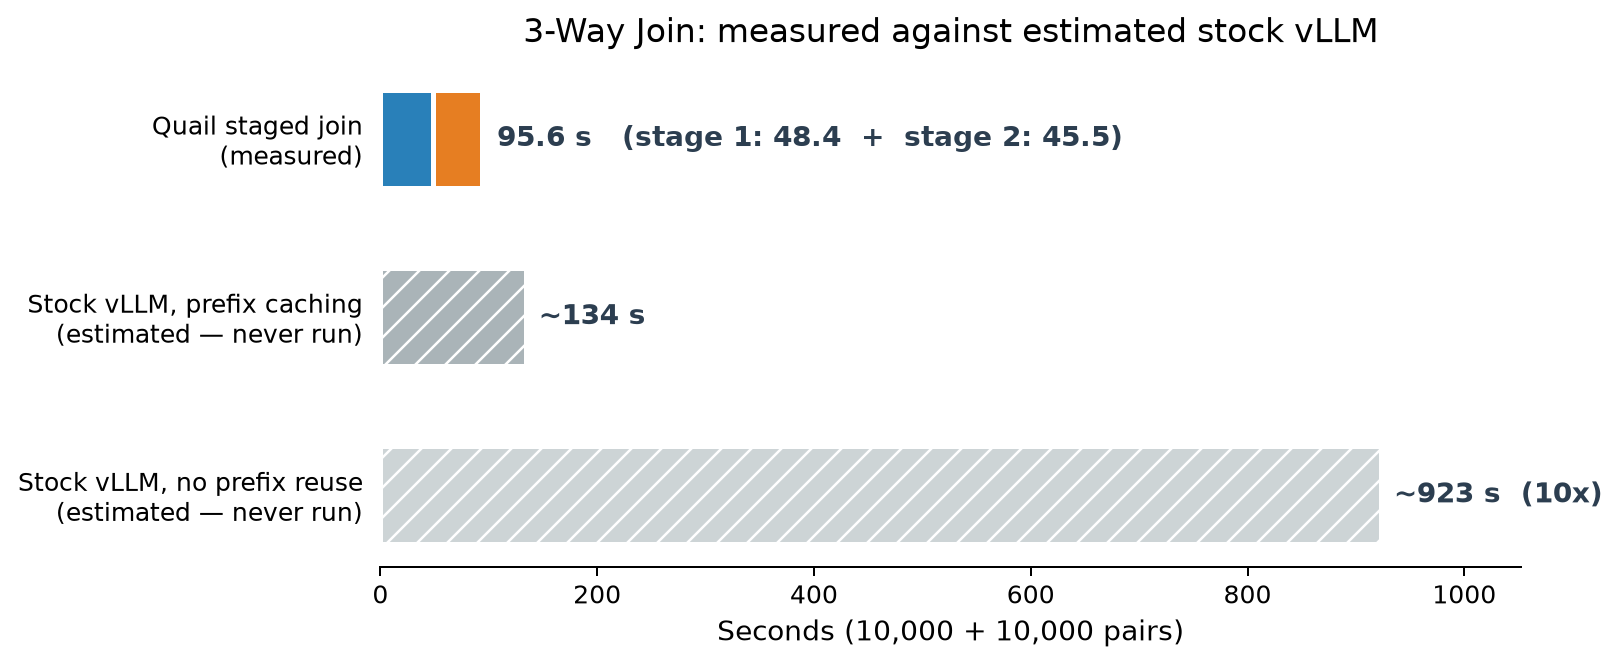
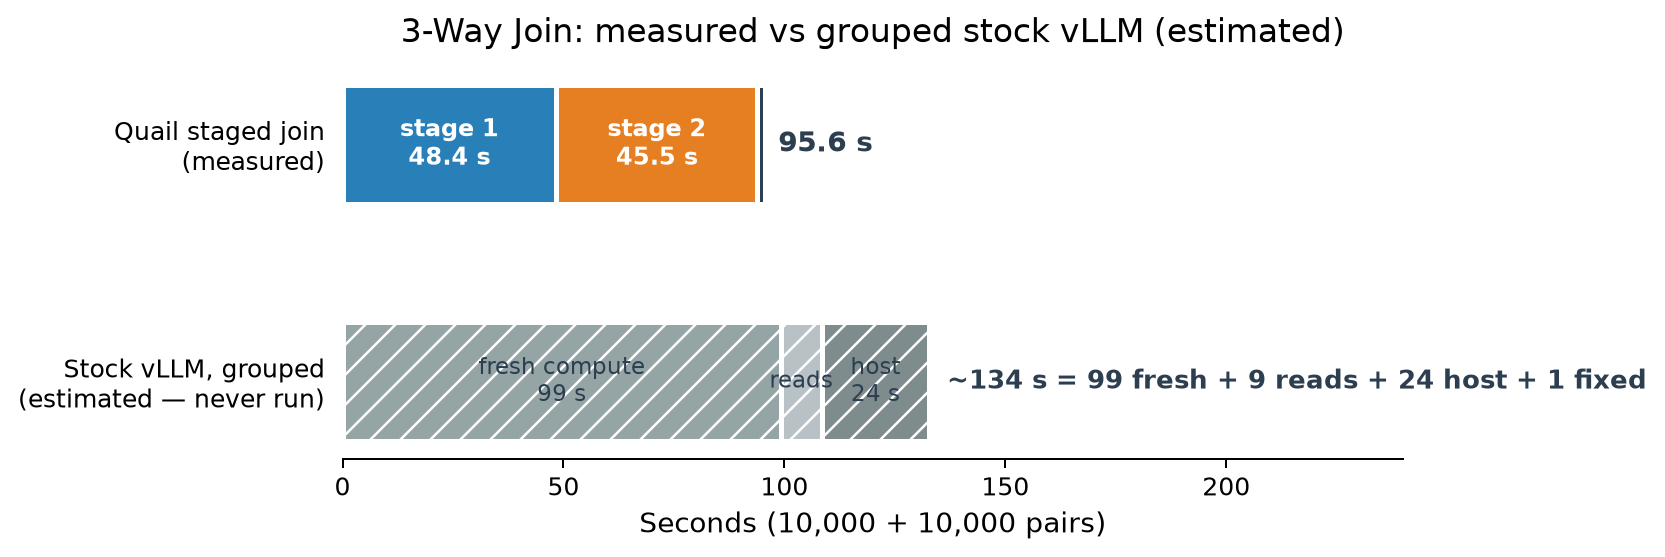
Comparison figure: grouped stock estimate only, with its four components in the bar
Dropped the no-prefix-reuse bar. The stock bar now mirrors the
2-way stock arm's configuration (request per pair, grouped by B,
prefix caching, tuned admission) and shows its construction as
segments: fresh compute, paged reads, host ingestion, per-request
fixed. Each component's anchor measurement is in the docstring.

Claude-Session: https://claude.ai/code/session_01CmQMk7TzKCiNyxUKHPVyYT

diff --git a/results/engine/join_plots.py b/results/engine/join_plots.py
@@ -138,30 +138,33 @@ def nway_time_bar():
 
 
 def nway_vs_stock():
-    """Measured staged join against two stock-vLLM estimates.
+    """Measured staged join against estimated grouped stock vLLM.
 
-    Both stock numbers are arithmetic from committed measurements -
-    never run. Submission strategy for both: one request per
-    (anchor, partner) pair, grouped by B document.
+    The stock bar is arithmetic from committed measurements - never
+    run. Its configuration mirrors the 2-way stock arm exactly: one
+    synchronous request per (anchor, partner) pair, submitted
+    grouped by B document so the engine's prefix cache hits, prefix
+    caching on, admission from the same budget formula. All 100 B
+    prefixes (368k tokens) fit the ~978k-token pool, so each prefix
+    computes once and nothing is evicted - grouping gives stock the
+    same computed-once token accounting we have.
 
-    Estimate 1 - prefix caching on (all 100 B prefixes fit the
-    ~978k-token pool, so every prefix computes once):
-      fresh   7.025M tokens (368k prefix + 3.104M A + 3.553M C)
-              at 70.8k tok/s               -> 99.2 s
-              (70.8k = the 2-way stock's measured fresh rate:
-               433 s wall - 234 s host - 95 s reads over 7.36M)
-      reads   20,000 requests x 3,684 cached tokens x 125 ns -> 9.2 s
-      host    80.33M prompt tokens x (234 s / 770M)          -> 24.4 s
-      fixed   20,000 requests x 50.3 us                      -> 1.0 s
-                                                       total ~ 134 s
-
-    Estimate 2 - no prefix reuse (every request prefills its full
-    ~4k-token prompt):
-      fresh   80.33M tokens; per request T_pre(4,016) =
-              9.2 us/tok x 4,016 + 4.93e-10 x 4,016^2 = 44.9 ms
-              x 20,000                                  -> 898 s
-      host + fixed                                      -> 25.4 s
-                                                       total ~ 923 s
+    The four components, each anchored to a measurement:
+      fresh   7.025M tokens (368k B prefixes once + 3.104M A
+              suffixes + 3.553M C suffixes) at 70.8k tok/s -> 99.2 s
+              [the rate is the 2-way stock arm's own measured
+               fresh-compute rate: 433 s wall - 234 s host - 95 s
+               reads = 104 s over 7.36M fresh tokens]
+      reads   every request's suffix attends over B's 3,684 cached
+              prefix tokens through the paged pool: 20,000 x 3,684
+              x 125 ns/cached-token                         -> 9.2 s
+              [125 ns from the c2 calibration cells]
+      host    the engine ingests each request's FULL prompt: 80.33M
+              prompt tokens x (234 s / 770M)               -> 24.4 s
+              [finding 1's measured host term, scaled by tokens
+               ingested; scaling by requests instead gives 18 s]
+      fixed   20,000 requests x 50.3 us                    -> 1.0 s
+                                               total       ~ 134 s
     """
     d = load("join_nway3.json")
     r = d["result"]
@@ -169,49 +172,58 @@ def nway_vs_stock():
     total = r["total_wall_s"]
     tails = round(total - s1 - s2, 1)
 
-    est_cached = 134
-    est_naive = 923
+    comps = [("fresh compute\n99 s", 99.2, "#95a5a6"),
+             ("reads", 9.2, "#b8c2c6"),
+             ("host\n24 s", 24.4, "#7f8c8d"),
+             ("", 1.0, "#ccd4d7")]
+    est_total = round(sum(v for _, v, _ in comps))
 
-    fig, ax = plt.subplots(figsize=(9, 3.8))
-    ink, muted = "#2c3e50", "#7f8c8d"
+    fig, ax = plt.subplots(figsize=(9, 3.2))
+    ink = "#2c3e50"
 
     labels = [
         "Quail staged join\n(measured)",
-        "Stock vLLM, prefix caching\n(estimated — never run)",
-        "Stock vLLM, no prefix reuse\n(estimated — never run)",
+        "Stock vLLM, grouped\n(estimated — never run)",
     ]
-    y = [0, 1, 2]
 
     # measured bar: stage segments + readout tail, 2px white gaps
-    ax.barh(0, s1, height=0.55, left=0, color="#2980b9",
+    ax.barh(0, s1, height=0.5, left=0, color="#2980b9",
             edgecolor="white", linewidth=2)
-    ax.barh(0, s2, height=0.55, left=s1, color="#e67e22",
+    ax.barh(0, s2, height=0.5, left=s1, color="#e67e22",
             edgecolor="white", linewidth=2)
-    ax.barh(0, tails, height=0.55, left=s1 + s2, color=ink,
+    ax.barh(0, tails, height=0.5, left=s1 + s2, color=ink,
             edgecolor="white", linewidth=2)
+    ax.text(s1 / 2, 0, f"stage 1\n{s1:.1f} s", ha="center",
+            va="center", fontsize=9.5, color="white",
+            fontweight="bold")
+    ax.text(s1 + s2 / 2, 0, f"stage 2\n{s2:.1f} s", ha="center",
+            va="center", fontsize=9.5, color="white",
+            fontweight="bold")
+    ax.text(total + 3, 0, f"{total:.1f} s", ha="left", va="center",
+            fontsize=11, color=ink, fontweight="bold")
 
-    # estimated bars: neutral gray + texture = "not a measurement"
-    ax.barh(1, est_cached, height=0.55, color="#aab4b8",
-            edgecolor="white", linewidth=2, hatch="//")
-    ax.barh(2, est_naive, height=0.55, color="#cdd4d6",
-            edgecolor="white", linewidth=2, hatch="//")
+    # estimated bar: component segments, gray + texture =
+    # arithmetic, not a measurement
+    left = 0.0
+    for name, val, color in comps:
+        ax.barh(1, val, height=0.5, left=left, color=color,
+                edgecolor="white", linewidth=2, hatch="//")
+        if name:
+            ax.text(left + val / 2, 1, name, ha="center",
+                    va="center", fontsize=9, color=ink)
+        left += val
+    ax.text(left + 3, 1,
+            f"~{est_total} s = 99 fresh + 9 reads + 24 host + 1 fixed",
+            ha="left", va="center", fontsize=10.5, color=ink,
+            fontweight="bold")
 
-    for yi, val, note in [
-            (0, total,
-             f"{total:.1f} s   (stage 1: {s1:.1f}  +  stage 2: {s2:.1f})"),
-            (1, est_cached, f"~{est_cached} s"),
-            (2, est_naive,
-             f"~{est_naive} s  ({est_naive/total:.0f}x)")]:
-        ax.text(val + 12, yi, note, ha="left", va="center",
-                fontsize=11, color=ink, fontweight="bold")
-
-    ax.set_yticks(y)
+    ax.set_yticks([0, 1])
     ax.set_yticklabels(labels, fontsize=10)
     ax.invert_yaxis()
     ax.set_xlabel("Seconds (10,000 + 10,000 pairs)", fontsize=11)
-    ax.set_xlim(0, est_naive * 1.14)
-    ax.set_title("3-Way Join: measured against estimated stock vLLM",
-                 fontsize=13, pad=10)
+    ax.set_xlim(0, 240)
+    ax.set_title("3-Way Join: measured vs grouped stock vLLM "
+                 "(estimated)", fontsize=13, pad=10)
     ax.spines["top"].set_visible(False)
     ax.spines["right"].set_visible(False)
     ax.spines["left"].set_visible(False)
@@ -221,7 +233,7 @@ def nway_vs_stock():
                 bbox_inches="tight")
     plt.close(fig)
     print(f"  join_nway3_vs_stock.png  ({total:.1f} s measured vs "
-          f"~{est_cached} / ~{est_naive} s estimated)")
+          f"~{est_total} s estimated grouped stock)")
 
 
 if __name__ == "__main__":
